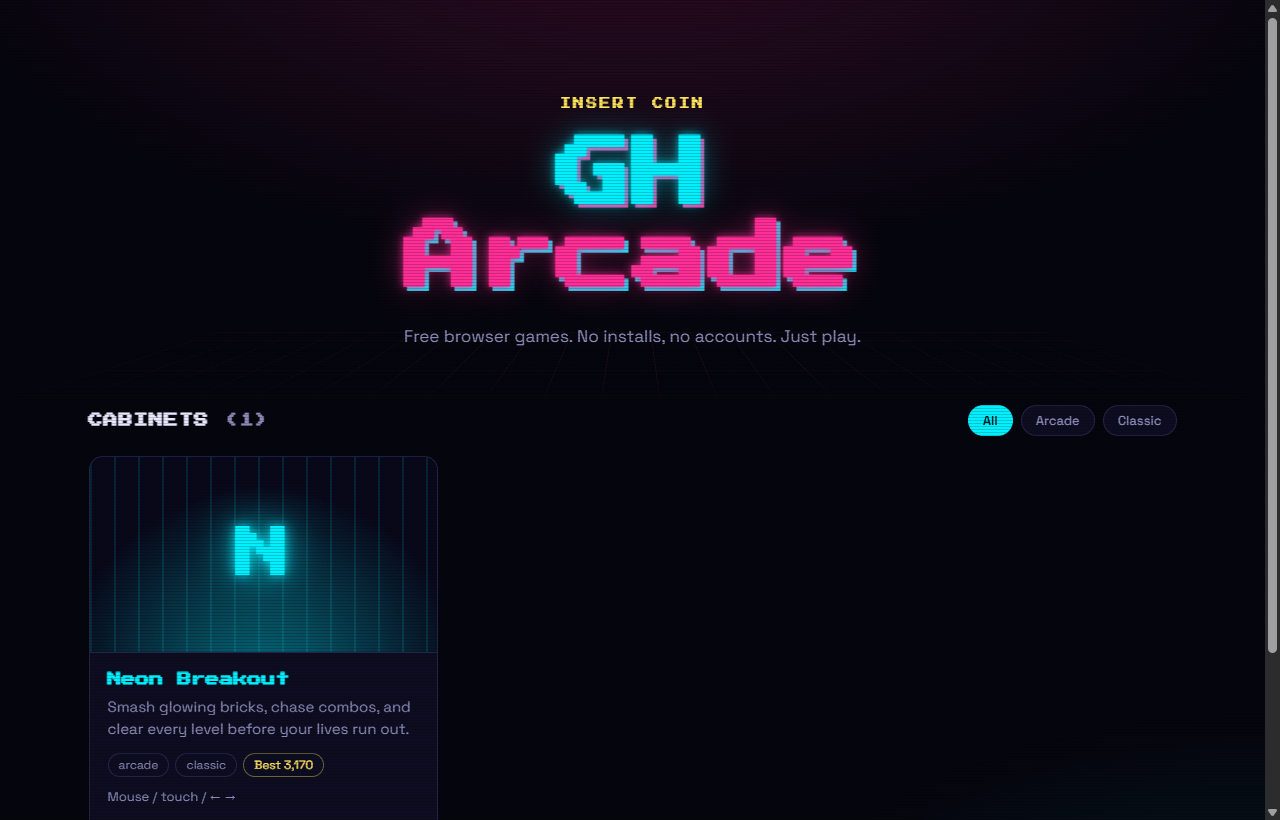
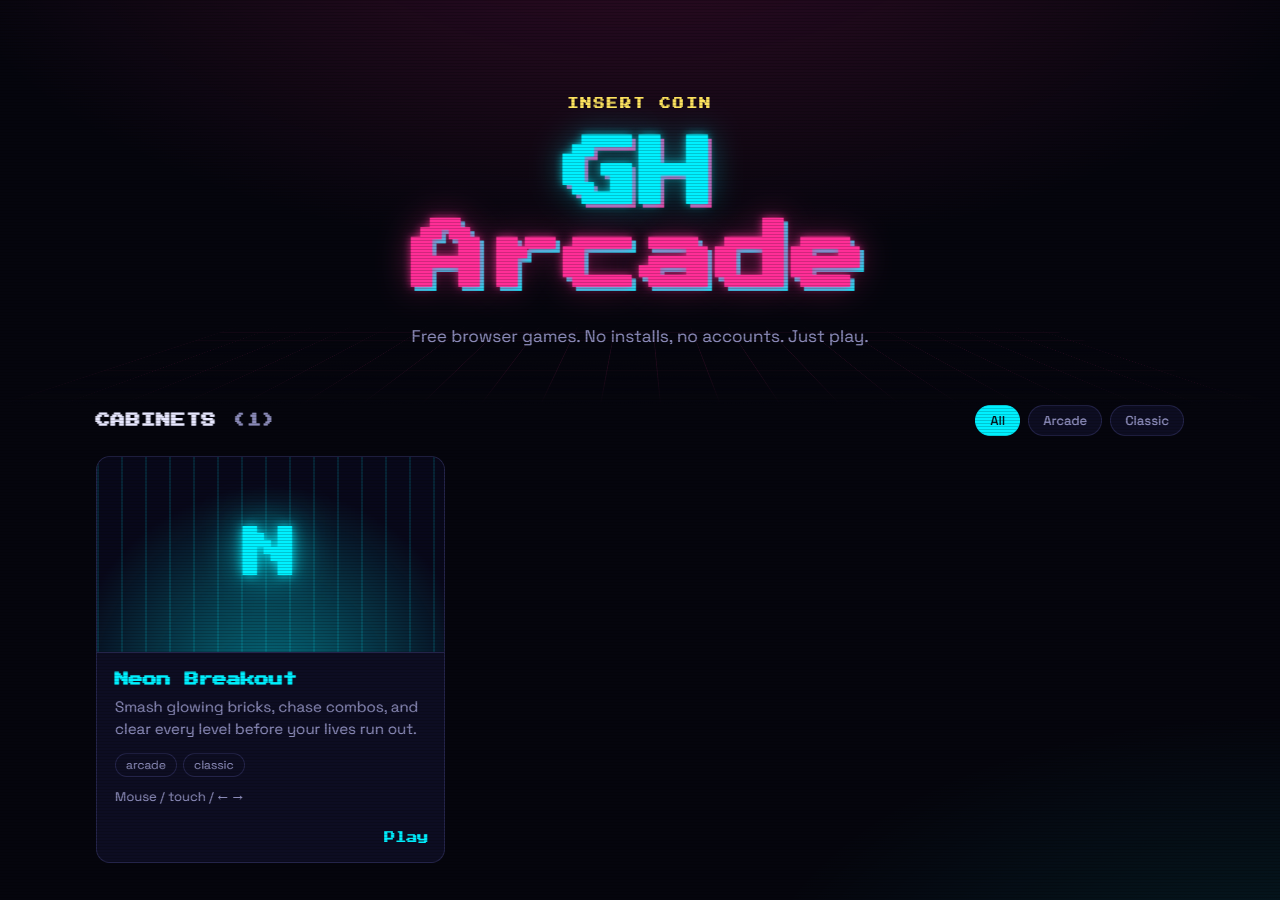
Polish README layout and images
- Show the gameplay GIF centered at full size instead of inside a table
- Move a clean hub screenshot (no scrollbar, no test score, full card)
  into the Features section
- Make the banner's rounded corners transparent so they don't show as
  white in dark mode
- Replace the small Mermaid diagram with a numbered deploy pipeline
- Split "Make your own game" into steps with headings, add a toolkit
  usage example, and simplify the toolkit table to two columns
- Drop the horizontal rules that doubled up with heading underlines

diff --git a/README.md b/README.md
@@ -5,11 +5,12 @@
 </a>
 
 <br />
+<br />
 
 [![Play now](https://img.shields.io/badge/PLAY%20NOW-tmhsdigital.github.io%2FGH--Arcade-ff2e97?style=for-the-badge&labelColor=05050d)](https://tmhsdigital.github.io/GH-Arcade/)
 
 [![Deploy](https://img.shields.io/github/actions/workflow/status/TMHSDigital/GH-Arcade/deploy.yml?branch=main&style=flat-square&label=deploy&labelColor=05050d)](https://github.com/TMHSDigital/GH-Arcade/actions/workflows/deploy.yml)
-[![Games](https://img.shields.io/badge/games-1-00f0ff?style=flat-square&labelColor=05050d)](#the-cabinets)
+[![Games](https://img.shields.io/badge/games-1-00f0ff?style=flat-square&labelColor=05050d)](#games)
 [![Phaser](https://img.shields.io/badge/Phaser-3.90-a45bff?style=flat-square&labelColor=05050d)](https://phaser.io)
 [![TypeScript](https://img.shields.io/badge/TypeScript-5-3178c6?style=flat-square&logo=typescript&logoColor=white&labelColor=05050d)](https://www.typescriptlang.org)
 [![Vite](https://img.shields.io/badge/Vite-6-ffe45e?style=flat-square&logo=vite&logoColor=white&labelColor=05050d)](https://vite.dev)
@@ -18,43 +19,40 @@
 **A growing collection of free, open-source arcade games that run in your browser.**<br />
 No installs. No accounts. No ads. Works on desktop and mobile.
 
-[**Play**](https://tmhsdigital.github.io/GH-Arcade/) ·
-[**Games**](#the-cabinets) ·
-[**Quick start**](#quick-start) ·
-[**Make a game**](#make-your-own-game) ·
-[**How it works**](#how-it-works) ·
-[**Roadmap**](#roadmap)
+[Games](#games) ·
+[Features](#features) ·
+[Quick start](#quick-start) ·
+[Make a game](#make-your-own-game) ·
+[How it works](#how-it-works) ·
+[Roadmap](#roadmap)
 
 </div>
 
----
+<br />
 
-<a id="the-cabinets"></a>
+<a id="games"></a>
 
-## The cabinets
+## Games
 
-<table>
-  <tr>
-    <td width="55%">
-      <a href="https://tmhsdigital.github.io/GH-Arcade/games/breakout/">
-        <img src=".github/assets/breakout.gif" alt="Neon Breakout gameplay: multiple balls smashing neon bricks" width="100%" />
-      </a>
-    </td>
-    <td width="45%">
-      <h3>Neon Breakout</h3>
-      <p>The classic brick-breaker, rebuilt with a synthwave glow. Aim with the paddle, chain combos between bounces, and catch power-ups as they fall.</p>
-      <ul>
-        <li>5 hand-built levels that loop with a faster ball</li>
-        <li>Armored bricks that take 2 or 3 hits</li>
-        <li>Combo multiplier up to <b>×8</b></li>
-        <li>Particles, screen shake and synthesized retro sound</li>
-      </ul>
-      <p>
-        <a href="https://tmhsdigital.github.io/GH-Arcade/games/breakout/"><b>Play Neon Breakout</b></a>
-      </p>
-    </td>
-  </tr>
-</table>
+### Neon Breakout
+
+<p align="center">
+  <a href="https://tmhsdigital.github.io/GH-Arcade/games/breakout/">
+    <img src=".github/assets/breakout.gif" alt="Neon Breakout gameplay: five balls smashing rows of neon bricks" width="640" />
+  </a>
+  <br />
+  <sub>Multi-ball on level 2. Click the clip to play.</sub>
+</p>
+
+The classic brick-breaker, rebuilt with a synthwave glow. Aim with the paddle, chain combos between bounces, and catch power-ups as they fall.
+
+- **5 hand-built levels** that loop with a faster ball each time around
+- **Armored bricks** that take 2 or 3 hits
+- **Combo multiplier** up to ×8
+- **4 power-ups:** wide paddle, multi-ball, slow-mo and extra life
+- **Juice:** particles, screen shake and synthesized retro sound
+
+**[Play Neon Breakout](https://tmhsdigital.github.io/GH-Arcade/games/breakout/)**
 
 <details>
 <summary><b>Controls, power-ups and scoring</b></summary>
@@ -79,26 +77,24 @@ No installs. No accounts. No ads. Works on desktop and mobile.
 
 </details>
 
-<p align="center">
-  <img src=".github/assets/hub.png" alt="The GH Arcade hub page" width="85%" />
-  <br />
-  <sub>The hub: every game gets a cabinet card, with your best score saved in the browser.</sub>
-</p>
-
----
+<a id="features"></a>
 
 ## Features
 
+<p align="center">
+  <img src=".github/assets/hub.png" alt="The GH Arcade hub page with the Neon Breakout cabinet card" width="100%" />
+  <br />
+  <sub>The hub. Every game gets a cabinet card, and your best score shows on it once you've played.</sub>
+</p>
+
 | Feature | Details |
 | --- | --- |
-| **Plays anywhere** | Pure static site on GitHub Pages. Loads straight in the browser on desktop, tablet or phone. |
+| **Plays anywhere** | A pure static site on GitHub Pages. Loads straight in the browser on desktop, tablet or phone. |
 | **Touch-ready** | Games scale to fit any screen and support mouse, keyboard and touch. |
 | **High scores** | Best scores are saved on your device and shown on the hub. No sign-up. |
 | **Zero-asset audio** | Sound effects are synthesized live with the Web Audio API, so there are no audio files to download. |
 | **Fast loads** | Each game is its own page and bundle. Phaser is split into one shared file that your browser caches across games. |
 | **One command per game** | `npm run new-game` scaffolds a working game and adds it to the hub. No config to edit. |
-
----
 
 <a id="quick-start"></a>
 
@@ -124,23 +120,25 @@ Then open **http://localhost:5173/GH-Arcade/**.
 | `npm run new-game <slug> ["Title"]` | Scaffold a new game |
 
 > [!TIP]
-> In dev mode the running Phaser game is exposed as `window.game`, so you can inspect scenes from the browser console. For example, `game.scene.getScene('Game')`. This is removed from production builds.
-
----
+> In dev mode the running Phaser game is exposed as `window.game`, so you can inspect scenes from the browser console, for example `game.scene.getScene('Game')`. This is removed from production builds.
 
 <a id="make-your-own-game"></a>
 
 ## Make your own game
 
-**1. Scaffold it**
+Adding a game takes three steps, and no config files.
+
+### 1. Scaffold it
 
 ```bash
 npm run new-game space-dodge "Space Dodge"
 ```
 
-This copies `games/_template/` to `games/space-dodge/`: a small, playable Phaser game with movement, collectibles and high scores already wired up. It also adds a card to the hub.
+This copies `games/_template/` to `games/space-dodge/`. The template is a small, playable Phaser game with movement, collectibles and high scores already wired up. The command also adds a card for it to the hub.
 
-**2. Describe it** in [`games/registry.json`](games/registry.json):
+### 2. Describe it
+
+Edit the new entry in [`games/registry.json`](games/registry.json). This is what the hub card shows.
 
 ```jsonc
 {
@@ -153,35 +151,45 @@ This copies `games/_template/` to `games/space-dodge/`: a small, playable Phaser
 }
 ```
 
-**3. Build it.** Run `npm run dev`, open `/GH-Arcade/games/space-dodge/` and start editing `main.ts`. Vite discovers every `games/*/index.html` automatically. Push to `main` and it's live.
+### 3. Build it
+
+Run `npm run dev`, open `/GH-Arcade/games/space-dodge/` and start editing `main.ts`. Vite picks up every `games/*/index.html` automatically. Push to `main` and it's live.
 
 ### The shared toolkit
 
-Every game can import these from [`shared/`](shared):
+Games can import ready-made helpers from [`shared/`](shared):
 
-| Module | Exports | Purpose |
-| --- | --- | --- |
-| [`phaser-config.ts`](shared/phaser-config.ts) | `createArcadeGame({ scenes, width?, height?, physics? })` | Standard Phaser setup: fit-to-screen scaling, Arcade physics, multi-touch |
-| [`storage.ts`](shared/storage.ts) | `getHighScore(id)`, `submitHighScore(id, score)`, `loadJSON`, `saveJSON` | `localStorage` helpers that never throw (e.g. in private browsing) |
-| [`sfx.ts`](shared/sfx.ts) | `tone({ freq, toFreq?, duration?, type? })`, `noise()`, `setMuted()` | Retro sound effects synthesized with Web Audio |
-| [`game-shell.css`](shared/game-shell.css) | CSS | Full-screen canvas page plus the "← Arcade" back button |
+```ts
+import { createArcadeGame } from '../../shared/phaser-config';
+import { submitHighScore } from '../../shared/storage';
+import { tone } from '../../shared/sfx';
+
+createArcadeGame({ scenes: [MenuScene, GameScene] });  // fit-to-screen Phaser game
+
+tone({ freq: 660, toFreq: 990, duration: 0.1 });       // rising "coin" blip
+const isNewRecord = submitHighScore('space-dodge', score);
+```
+
+| File | What it provides |
+| --- | --- |
+| [`phaser-config.ts`](shared/phaser-config.ts) | `createArcadeGame()`: a standard Phaser setup with fit-to-screen scaling, Arcade physics and multi-touch. |
+| [`storage.ts`](shared/storage.ts) | `getHighScore()`, `submitHighScore()`, `loadJSON()`, `saveJSON()`: `localStorage` helpers that never throw, even in private browsing. |
+| [`sfx.ts`](shared/sfx.ts) | `tone()`, `noise()`, `setMuted()`: retro sound effects synthesized with Web Audio. |
+| [`game-shell.css`](shared/game-shell.css) | The full-screen canvas page and the "← Arcade" back button. |
 
 > [!NOTE]
 > Phaser is the default engine, but it's optional. A game is just an `index.html` with a script, so plain Canvas, Three.js or anything else Vite can bundle will work.
-
----
 
 <a id="how-it-works"></a>
 
 ## How it works
 
-```mermaid
-flowchart LR
-    A["git push to main"] --> B["GitHub Actions<br/>npm ci + npm run build"]
-    B --> C["Vite multi-page build<br/>hub + every games/*/index.html"]
-    C --> D["dist/"]
-    D --> E["GitHub Pages<br/>tmhsdigital.github.io/GH-Arcade"]
-```
+Every push to `main` publishes the site automatically:
+
+1. **Push** to `main` triggers the [deploy workflow](.github/workflows/deploy.yml).
+2. **GitHub Actions** installs dependencies with `npm ci`, then runs `npm run build`.
+3. **The build** type-checks the code with TypeScript, then Vite bundles the hub plus every `games/*/index.html` into `dist/`.
+4. **GitHub Pages** serves `dist/` at [tmhsdigital.github.io/GH-Arcade](https://tmhsdigital.github.io/GH-Arcade/).
 
 <details>
 <summary><b>Project layout</b></summary>
@@ -210,23 +218,28 @@ GH-Arcade/
 <details>
 <summary><b>Design decisions</b></summary>
 
-- **Vite multi-page build, not an SPA.** Each game is an independent page, so one game can't break another, and each one loads only its own code.
-- **Shared Phaser chunk.** Phaser is ~340 KB gzipped. It's split into its own file so it downloads once and is cached for every game.
+<br />
+
+- **Vite multi-page build, not a single-page app.** Each game is an independent page, so one game can't break another, and each one loads only its own code.
+- **Shared Phaser chunk.** Phaser is about 340 KB gzipped. It's split into its own file so it downloads once and is cached for every game.
 - **Procedural art and audio.** Neon Breakout draws its textures at runtime and synthesizes its sounds, so the whole game is about 6 KB gzipped on top of Phaser.
 - **Relative links between pages.** The hub and games link to each other with relative paths, so the site works on the dev server, in preview and on Pages.
 
 </details>
 
----
-
 <a id="roadmap"></a>
 
 ## Roadmap
+
+**Shipped**
 
 - [x] Arcade hub with tag filters and saved high scores
 - [x] Neon Breakout
 - [x] One-command game scaffolding
 - [x] Automatic GitHub Pages deploys
+
+**Up next**
+
 - [ ] Snake
 - [ ] Asteroids-style shooter
 - [ ] Falling-block puzzler
@@ -236,8 +249,6 @@ GH-Arcade/
 
 Have an idea? [Open an issue](https://github.com/TMHSDigital/GH-Arcade/issues/new).
 
----
-
 ## Contributing
 
 New games, level designs and bug fixes are welcome.
@@ -245,9 +256,9 @@ New games, level designs and bug fixes are welcome.
 1. Fork the repo and create a branch.
 2. Run `npm run new-game <slug>` and build your game.
 3. Check that `npm run build` passes.
-4. Open a pull request with a screenshot or GIF.
+4. Open a pull request with a screenshot or GIF of your game.
 
----
+<br />
 
 <div align="center">
 
